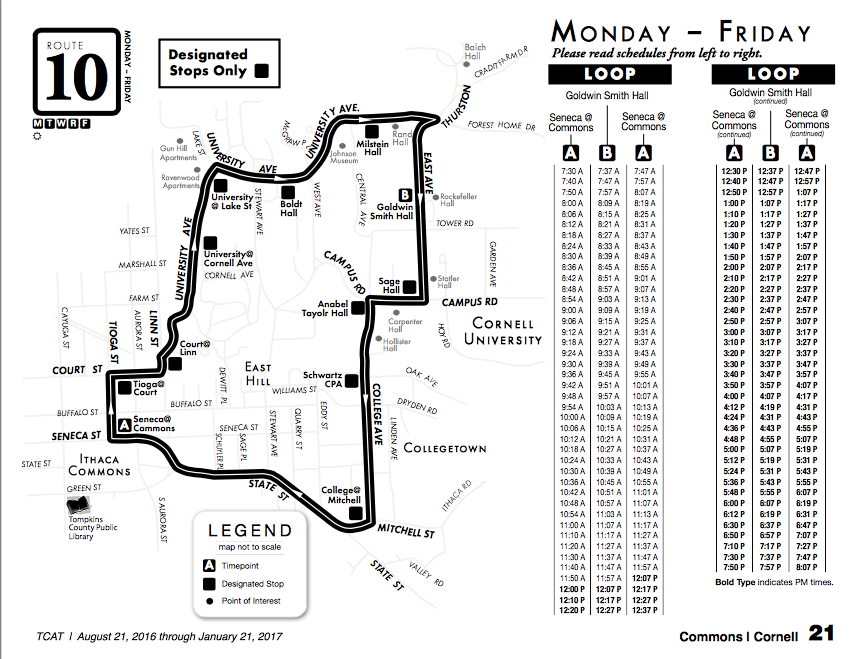
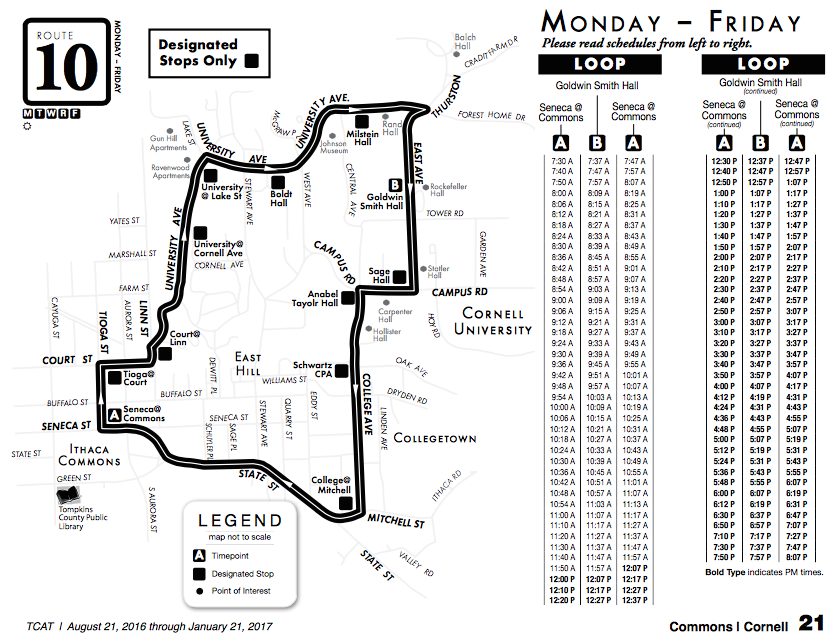
crop the borders of the photos

diff --git a/styles/styles.css b/styles/styles.css
@@ -132,7 +132,7 @@ p {
 
 iframe{
 	display: block;
-    margin-top: 2em;
+  margin-top: 2em;
 	margin-bottom: 2em;
 	margin-left: auto;
 	margin-right: auto;
@@ -149,13 +149,14 @@ iframe{
 
 #directionimg > img{
     margin: auto;
+    padding-bottom: 1.5em;
     max-width: 100%;
     height: auto;
 }
 #directionbus > img{
     margin: auto;
     padding-top: 2em;
-    padding-bottom: 3em;
+    padding-bottom: 2em;
     max-width: 100%;
     height: auto;
 }

diff --git a/directions.php b/directions.php
@@ -41,6 +41,7 @@
 				<img id="enlarge" src="images/routemap.jpg">
 				<!-- Media Credit : TCAT Website -->
 			</div>
+			<span>Route Schedules and Maps Taken From TCAT's <a href="http://https://www.tcatbus.com/ride/2015-ride-guide/" target="_blank">Ride Guide</a>!</span>
 
 			<!-- parition -->
 			<hr>
@@ -48,6 +49,7 @@
 			<p class="mapdescription">Ithaca Commons on Google Map</p>
 			<div id="googlemap">
 				<iframe src="https://www.google.com/maps/embed?pb=!1m18!1m12!1m3!1d2944.443033500038!2d-76.49993280325015!3d42.439588879181684!2m3!1f0!2f0!3f0!3m2!1i1024!2i768!4f13.1!3m3!1m2!1s0x89d0819c8632d9e5%3A0x7e9b07ab2aa65eb6!2sIthaca+Commons!5e0!3m2!1sen!2sus!4v1480029466179" width=100% height="450" frameborder="60" style="border:0" allowfullscreen></iframe>
+				<!-- Media Credit : Google Map-->
 			</div>
 
 			
